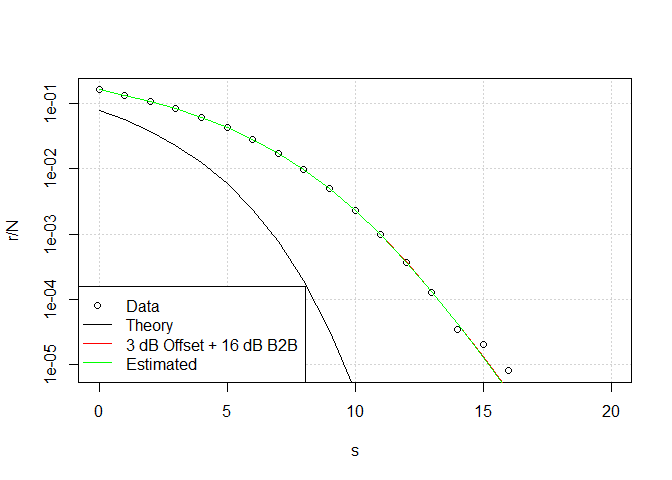
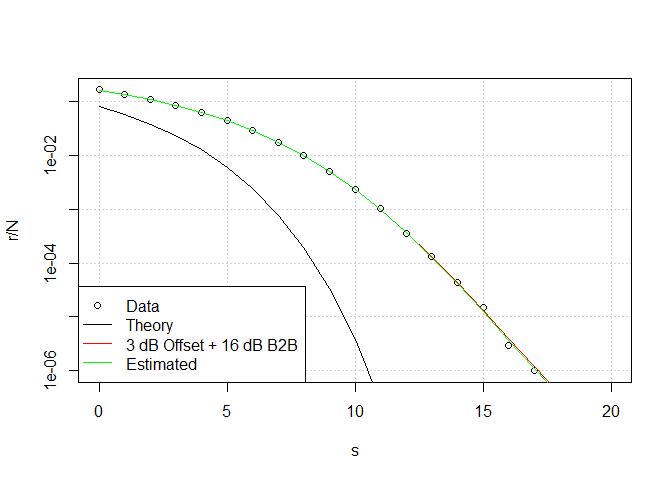
Results of preps for CRAN submission.

diff --git a/README.md b/README.md
@@ -1,13 +1,15 @@
 README.rmd
 ================
 Phil Shea
-2022-08-31
+2022-09-06
 
 # `binfunest`
 
 <!-- badges: start -->
 
 [![R-CMD-check](https://github.com/PhilShea/binfunest/actions/workflows/R-CMD-check.yaml/badge.svg)](https://github.com/PhilShea/binfunest/actions/workflows/R-CMD-check.yaml)
+[![Codecov test
+coverage](https://codecov.io/gh/PhilShea/binfunest/branch/main/graph/badge.svg)](https://app.codecov.io/gh/PhilShea/binfunest?branch=main)
 <!-- badges: end -->
 
 The goal of B2BQ is to simplify the estimation of offsets and
@@ -46,8 +48,8 @@ B1 <- 16 # B2BQ
 s <- 0:20 # SNR Range 
 N <- 1000000 # Number of samples
 (r <- rbinom( length( s), N, QPSKdB.B2B( s, B1, O1)))
-#>  [1] 161310 134582 108329  83561  62110  43110  28483  17401   9794   4943
-#> [11]   2278    985    366    129     34     20      8      0      0      0
+#>  [1] 162270 134744 108042  83824  61614  43320  28496  17173   9682   4957
+#> [11]   2323   1030    348    130     44     15      3      1      0      0
 #> [21]      0
 df <- data.frame( Errors=r, SNR=s, N=N) # place data in data frame
 
@@ -58,14 +60,14 @@ mle1 <- stats4::mle( llsb2, start=c( b2b=20, offset=0), nobs=length(s),
                    method="Nelder-Mead")
 stats4::coef( mle1)
 #>       b2b    offset 
-#> 16.030781  3.002858
+#> 16.062584  3.005711
 # Below is the new function
 est1 <-  mleB2B( data=df, Errors="Errors", N=N, f=QPSKdB.B2B,
                  fparms=list( x="SNR"), start=c(b2b=20, offset=0))
 
 (est1coef <- stats4::coef( est1))
 #>       b2b    offset 
-#> 16.030781  3.002858
+#> 16.062584  3.005711
 ```
 
 The plot below compares the theoretical curve to the curve with B2B and
@@ -73,7 +75,7 @@ offset, and the estimated curve.
 
 ``` r
 plot( s, y=r/N, log='y', type='p', panel.first = grid())
-#> Warning in xy.coords(x, y, xlabel, ylabel, log): 4 y values <= 0 omitted from
+#> Warning in xy.coords(x, y, xlabel, ylabel, log): 3 y values <= 0 omitted from
 #> logarithmic plot
 lines( s, QPSKdB( s))
 lines( s, QPSKdB.B2B( s, B1, O1), col='red')

diff --git a/NEWS.md b/NEWS.md
@@ -1,3 +1,4 @@
-# binfunest 0.1.0.9000
+1# binfunest 0.1.0.9000
 
 * Added a `NEWS.md` file to track changes to the package.
+* This is the first release of the package.

diff --git a/cran-comments.md b/cran-comments.md
@@ -1,0 +1,4 @@
+## R CMD check results
+There were no ERRORs or WARNINGs. 
+
+# This is the first submission of binfunest.
